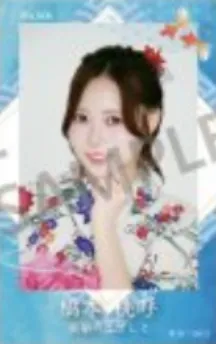
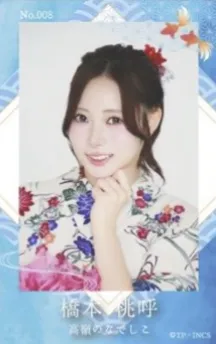
画像を差し替え。

diff --git a/app/features/products/2026/2026-07-12_ミニフォトカード「たかねこフェス vol.6」.ts b/app/features/products/2026/2026-07-12_ミニフォトカード「たかねこフェス vol.6」.ts
@@ -10,37 +10,37 @@ export const たかねこフェスvol6_ミニフォト: RandomGoods = {
   category: "ミニフォトカード",
   set: { kind: ProductLine.MiniPhotoCard, setName: "たかねこフェス vol.6" },
   tradeText: TradeTextType.Numbering,
-  url: "/takaneko/goods/2026/2026-07-12_ミニフォトカード「たかねこフェス vol.6」.webp",
-  width: 1080,
-  height: 1238,
+  url: "/takaneko/goods/2026/2026-07-12_ミニフォトカード「たかねこフェス vol.6」.jpg",
+  width: 1587,
+  height: 2244,
   variants: REGULAR_MINI_PHOTO_SET2,
   positions: [
-    { id: 1, x: 41, y: 33, width: 138, height: 220 },
-    { id: 2, x: 213, y: 33, width: 138, height: 220 },
-    { id: 3, x: 385, y: 33, width: 138, height: 220 },
-    { id: 4, x: 557, y: 33, width: 138, height: 220 },
-    { id: 5, x: 729, y: 33, width: 138, height: 220 },
-    { id: 6, x: 901, y: 33, width: 138, height: 220 },
-    { id: 7, x: 41, y: 271, width: 138, height: 220 },
-    { id: 8, x: 213, y: 271, width: 138, height: 220 },
-    { id: 9, x: 385, y: 271, width: 138, height: 220 },
-    { id: 10, x: 557, y: 271, width: 138, height: 220 },
-    { id: 11, x: 729, y: 271, width: 138, height: 220 },
-    { id: 12, x: 901, y: 271, width: 138, height: 220 },
-    { id: 13, x: 41, y: 509, width: 138, height: 220 },
-    { id: 14, x: 213, y: 509, width: 138, height: 220 },
-    { id: 15, x: 385, y: 509, width: 138, height: 220 },
-    { id: 16, x: 557, y: 509, width: 138, height: 220 },
-    { id: 17, x: 729, y: 509, width: 138, height: 220 },
-    { id: 18, x: 901, y: 509, width: 138, height: 220 },
-    { id: 19, x: 41, y: 747, width: 138, height: 220 },
-    { id: 20, x: 213, y: 747, width: 138, height: 220 },
-    { id: 21, x: 385, y: 747, width: 138, height: 220 },
-    { id: 22, x: 557, y: 747, width: 138, height: 220 },
-    { id: 23, x: 729, y: 747, width: 138, height: 220 },
-    { id: 24, x: 901, y: 747, width: 138, height: 220 },
-    { id: 25, x: 41, y: 985, width: 138, height: 220 },
-    { id: 26, x: 213, y: 985, width: 138, height: 220 },
-    { id: 27, x: 385, y: 985, width: 138, height: 220 },
+    { id: 1, x: 84, y: 409, width: 218, height: 342 },
+    { id: 2, x: 324, y: 409, width: 218, height: 342 },
+    { id: 3, x: 561, y: 407, width: 218, height: 342 },
+    { id: 4, x: 808, y: 409, width: 218, height: 342 },
+    { id: 5, x: 1048, y: 409, width: 218, height: 342 },
+    { id: 6, x: 1284, y: 409, width: 218, height: 342 },
+    { id: 7, x: 83, y: 770, width: 218, height: 342 },
+    { id: 8, x: 324, y: 770, width: 218, height: 342 },
+    { id: 9, x: 563, y: 770, width: 218, height: 342 },
+    { id: 10, x: 808, y: 770, width: 218, height: 342 },
+    { id: 11, x: 1046, y: 772, width: 218, height: 342 },
+    { id: 12, x: 1284, y: 771, width: 218, height: 342 },
+    { id: 13, x: 83, y: 1135, width: 218, height: 342 },
+    { id: 14, x: 323, y: 1135, width: 218, height: 342 },
+    { id: 15, x: 563, y: 1135, width: 218, height: 342 },
+    { id: 16, x: 810, y: 1133, width: 218, height: 342 },
+    { id: 17, x: 1046, y: 1133, width: 218, height: 342 },
+    { id: 18, x: 1284, y: 1135, width: 218, height: 342 },
+    { id: 19, x: 83, y: 1495, width: 218, height: 342 },
+    { id: 20, x: 323, y: 1495, width: 218, height: 342 },
+    { id: 21, x: 563, y: 1495, width: 218, height: 342 },
+    { id: 22, x: 810, y: 1495, width: 218, height: 342 },
+    { id: 23, x: 1046, y: 1495, width: 218, height: 342 },
+    { id: 24, x: 1284, y: 1495, width: 218, height: 342 },
+    { id: 25, x: 440, y: 1860, width: 218, height: 342 },
+    { id: 26, x: 684, y: 1858, width: 218, height: 342 },
+    { id: 27, x: 929, y: 1858, width: 218, height: 342 },
   ],
 };
